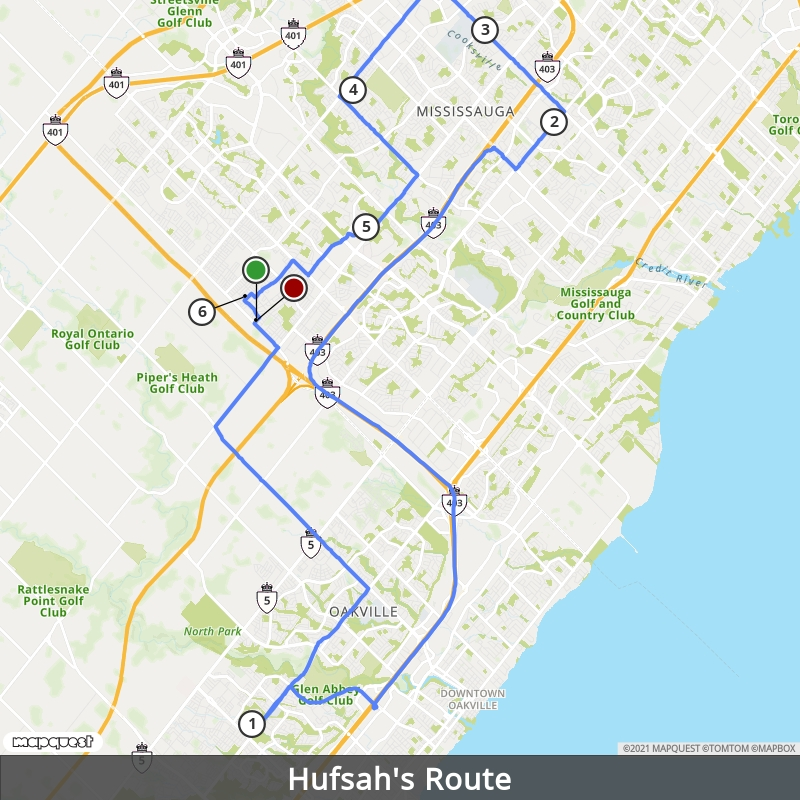
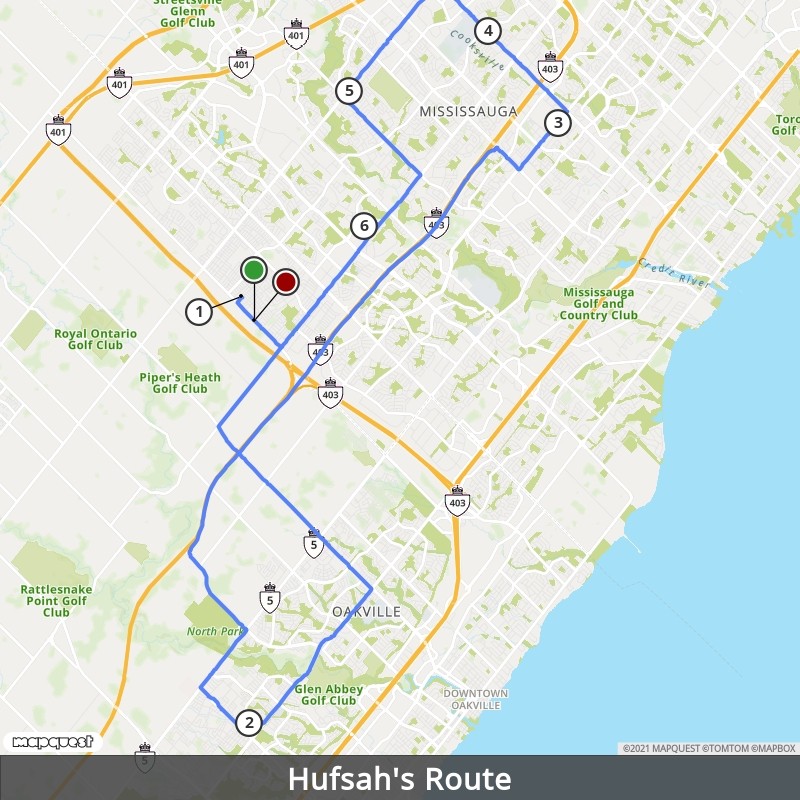
Update maps

diff --git a/osp/out/info.js b/osp/out/info.js
@@ -1,1 +1,1 @@
-var route_info = [{"name": "Abdul-Hannan Ahmad", "map": "out/Abdul-Hannan_Ahmad.png", "sequence": ["372 Activa Avenue, Kitchener", "69 Gravel Ridge Trail, Kitchener", "313 Activa avenue, Kitchener", "214 Activa Avenue, Kitchener", "142 bridlewreath street, Kitchener", "1162 Copper Leaf Crescent, Kitchener", "250 Chandler Dr., Kitchener", "294 Chandler drive , Kitchener", "40 Paulander Dr, Kitchener", "42 Weichel st, Kitchener", "17 mooregate cr, Kitchener", "66 Mooregate Crescent, Kitchener", "132 westheights dr, Kitchener"], "details": ["", "", "", "", "", "", "Melissa, Tayma: Unit 4; Luma: Unit 14", "", "Unit 17", "unit O", "Unit A", "unit 1410", ""], "units": ["1", "1", "1", "1", "1", "1", "3", "1", "1", "1", "1", "1", "1"], "names": ["Shazah Waqar", "Ruhiya Abdurafikova", "Ayse Nur Gurbuz ", "Tala Aburashed", "areeba shaikh ", "Radwan Ahmed ", "Melissa Aydi, Tayma Aydi, Luma Abuarqoub", "Noor Hasiba ", "Sahar Gulabi", "Ridwana Hagi", "Rowda Abdalla", "Betul Karanfil", "Shehryar Suleman"], "phones": ["", "", "", "226-507-4148", "226-972-3263", "", "Melissa: 226-339-2413, Tayma: 226-339-9453", "905-923-9412", "", "", "", "416-723-0450", "226-935-8149"], "time": "2096"}, {"name": "Basma Hamodi", "map": "out/Basma_Hamodi.png", "sequence": ["483 Acadia Court, Waterloo", "470 Redfox Rd, Waterloo", "227 Carter Avenue, Waterloo", "155 St. Leger Street, Kitchener"], "details": ["", "", "", "Unit 217; Please press 3217 at the phone box or give me a call!"], "units": ["3", "1", "1", "1"], "names": ["Kashmala Sajjad, Shehlala Sajjad, Zara Sajjad", "Samya Mohamad ", "Rita Alexander", "Jia Park"], "phones": ["Kashmala: 226-606-8040, Shehlala: 226-606-8040, Zara: 226-606-8040", "", "226-507-5340", "519-569-0735"], "time": "1672"}, {"name": "Hufsah Khan", "map": "out/Hufsah_Khan.png", "sequence": ["2081 Blue Jay Blvd, Oakville", "285 Enfield Place, Mississauga", "65 trailwood dr., Mississauga", "1429 Pate Court, Mississauga", "5060 Forest Hill Dr., Mississauga", "5547 Bridgeport Gate, Mississauga"], "details": ["", "Apt #1810", "Unit 421", "", "", ""], "units": ["1", "1", "1", "1", "1", "1"], "names": ["Eman Rashdi", "Qamar Mobayed", "Areesha Khan", "Zaineb Malik ", "ayesha mohammedaly ", "Michelle Angkasa"], "phones": ["905-616-8911", "647-641-2214", "Home: 905-502-7450, Cell: 647-898-7450 (but might be at work and can't answer)", "437-333-1475", "", ""], "time": "4282"}, {"name": "Mohammad Ali", "map": "out/Mohammad_Ali.png", "sequence": ["60 Grovewood Drive, Brampton", "75 Checkerberry Crescent, Brampton", "677 Balmoral Drive, Brampton", "10 Cousins Court, Brampton", "121 Owlridge Drive, Brampton"], "details": ["", "", "", "", ""], "units": ["1", "1", "1", "1", "1"], "names": ["Mohammad Ali", "Suvasan Krishnasamy", "Samar Riaz", "Mariam Rizvi", "Mahnoor Adnan"], "phones": ["647-787-4894", "647-886-9689", "647-617-5758", "", ""], "time": "3058"}, {"name": "Aisha Jamal", "map": "out/Aisha_Jamal.png", "sequence": ["258 Dewdrop Crescent, Waterloo", "252 Dewdrop Crescent, Waterloo", "421 Bamberg Crescent, Waterloo", "606 Brandenburg Blvd, Waterloo", "208 Beaver Creek Road, Waterloo", "70 Gerber Meadows Drive, Wellesley", "351 Red Osier Rd, Waterloo", "285 Sweet Gale St, Waterloo"], "details": ["", "", "", "", "", "", "", ""], "units": ["1", "1", "1", "1", "1", "1", "4", "1"], "names": ["Tabish Jamal", "Wajeeha Zaheer ", "Maha Rizvi", "Bushra Khan", "Umaymah Suhail", "Afnan Alsakani ", "Aya Alsefaou, Shahed Alsefaou, Moad Abdualla Alsefaou, Fatma Alsefaou", "Salsabeel Joma Mahfod"], "phones": ["226-972-2995", "226-751-6651", "519-729-2009", "", "519-807-8463", "226-606-2030", "Aya: 226-808-1400, Shahed: 519-404-3303, Moad: 226-988-3992, Fatma: 226-808-4411", "226-750-6618"], "time": "3171"}, {"name": "Ameer Qamar", "map": "out/Ameer_Qamar.png", "sequence": ["20 Monument Trail, Brampton"], "details": [""], "units": ["1"], "names": ["Zahra Qamar"], "phones": [""], "time": "0"}, {"name": "Mariam Elsoukkary", "map": "out/Mariam_Elsoukkary.png", "sequence": ["1064 Courtland Ave E, Kitchener", "560 Greenfield Ave. , Kitchener", "121 Rouse Ave., Cambridge", "75 Timber Creek Crescent, Cambridge", "18 Brock Street, Guelph", "715 Doon Village Road, Kitchener"], "details": ["Unit A", "Unit B9 ", "", "", "", "Hamda, Awo: Unit 28; Aimen: Unit 4"], "units": ["1", "2", "1", "2", "1", "3"], "names": ["Mariam Elsoukkary", "Shahad Hussein, Abdullah Hussein", "Zainab Ijaz", "Madiha Fathima Syed, Sabiha Syed", "Juri Alsalami", "Hamda Essa, Awo Essa, Aimen Fatima"], "phones": ["226-581-3404", "", "226-988-4121", "Madiha: 226-505-7038, Sabiha: 226-201-2230", "226-899-4064", "Awo: 226-606-9062, Aimen: 226-505-6161"], "time": "5088"}, {"name": "Noora Ali", "map": "out/Noora_Ali.png", "sequence": ["407 Moorlands Crescent, Kitchener", "590 Blair Creek Drive , Kitchener", "212 Tall Grass Crescent, Kitchener", "79 West Oak Trail, Kitchener", "15 Sofitel drive, Kitchener", "130 Sophia Crescent, Kitchener"], "details": ["", "", "", "", "", ""], "units": ["1", "4", "1", "1", "2", "1"], "names": ["Olivia Maaser-Foremna", "Mariam Mohammed Alhajali, Dema, Judi, Dana Al Haj Ali", "Jana Almasri", "Umar Hussain", "Lema Khadra, Majd Khadra", "Hina Zahid "], "phones": ["226-444-7402", "", "", "519-502-0181", "Majd: 226-808-9412", "226-988-7145"], "time": "1812"}, {"name": "Asad Baig", "map": "out/Asad_Baig.png", "sequence": ["7406 Darcel ave, Mississauga", "3981 Bloor St West, Etobicoke", "630 Rogers Road, York", "1665 Victoria Park Ave., Scarborough", "17 sun avenue, Scarborough"], "details": ["Unit 29", "Unit A", "Unit 10", "Unit 501", ""], "units": ["1", "1", "1", "1", "1"], "names": ["Tawseef Patel", "Minh Phung", "Aafia Tanvir", "Abdullah Aslam", "Victoria Thai"], "phones": ["905-749-0215", "647-677-4943", "", "", "647-708-2940"], "time": "5140"}, {"name": "Faraz Tahir", "map": "out/Faraz_Tahir.png", "sequence": ["156 Large Crescent, Ajax", "9 Bellinger Dr., Ajax", "69 Garrardview Street, Ajax", "1 Starmount Avenue, Markham", "26 Angela Court, Markham", "48 Monique Court, Markham", "110 Empringham Drive, Scarborough", "23 Blackwater Crescent, Scarborough", "555 Brimorton Dr, Scarborough", "24 Charlton Crescent, Ajax"], "details": ["", "", "", "", "", "", "Unit 140", "", "Apt 410", ""], "units": ["1", "1", "1", "1", "1", "1", "1", "1", "1", "1"], "names": ["Faraz Tahir", "Areebah Iqbal", "Suhyma Rahman", "Aanisah ", "Marhamah Sohail", "Zarlasht Jamal", "Takwa Wahedi", "Munira Al-Amudy", "Krunali Dave ", "Shanza Jamshed"], "phones": ["", "647-767-2955", "416-286-7599", "", "416-567-8419", "1-647-720-6296", "", "", "", "647-894-8125"], "time": "5379"}, {"name": "Areeb Hyder", "map": "out/Areeb_Hyder.png", "sequence": ["922 Thompson Rd South, Milton", "1344 Argall Court, Milton", "464 Laundon Terrace, Milton", "7360 Zinnia Place, Mississauga", "6240 Montevideo Road, Mississauga"], "details": ["", "", "", "Unit 52", "Unit 48"], "units": ["1", "1", "1", "1", "1"], "names": ["Ayah Hussein", "Zobia Irfan", "Zara Hussaini", "Rabiya Majeed ", "Tayyaab Tanveer"], "phones": ["", "", "647-691-9084", "647-802-9529", "1-647-989-2720"], "time": "3777"}, {"name": "Amneh Abdallah", "map": "out/Amneh_Abdallah.png", "sequence": ["69 Churchill St, Waterloo", "102 Seagram Drive, Waterloo", "62 Balsam St, Waterloo", "222 Albert St, Waterloo", "295 Lester St, Waterloo", "30 Academy Cr, Waterloo", "693 Beechwood Dr, Waterloo", "764 Paris Boulevard, Waterloo", "402 Westcroft Drive, Waterloo", "309 Hillcroft Court, Waterloo"], "details": ["Unit A", "Apt 207", "Suite B606", "Unit 1207 (12th Floor), Building Access Code: 96542", "", "", "Unit 36", "", "", ""], "units": ["2", "1", "1", "1", "1", "1", "1", "2", "3", "1"], "names": ["Sophie Dyke, Emma Ross", "Talha Aazar ", "Chi Liu", "Olla Mohamad Ahmed Obied", "Sebin Oh", "Uzair Memon ", "Raghda Said", "Maryam Noor Alam, Arifa Alam", "Tahmina Faez, Tina Faez, Tamana Faez", "Selah-Kareena Banton"], "phones": ["Sophie: 613-264-7989", "647-769-7889", "647-712-7101", "437-335-6911", "1-647-529-8967", "", "647-512-2202", "Maryam: 226-507-6126, Arifa: 226-988-1629", "Tahmina: 226-698-3357, Tina: 226-507-3377, Tamana: 226-507-3377", "519-497-9253"], "time": "1957"}];
+var route_info = [{"name": "Abdul-Hannan Ahmad", "map": "out/Abdul-Hannan_Ahmad.png", "sequence": ["372 Activa Avenue, Kitchener", "313 Activa avenue, Kitchener", "214 Activa Avenue, Kitchener", "69 Gravel Ridge Trail, Kitchener", "142 bridlewreath street, Kitchener", "1162 Copper Leaf Crescent, Kitchener", "294 Chandler drive , Kitchener", "250 Chandler Dr., Kitchener", "42 Weichel st, Kitchener", "40 Paulander Dr, Kitchener", "66 Mooregate Crescent, Kitchener", "17 mooregate cr, Kitchener", "132 westheights dr, Kitchener"], "details": ["", "", "", "", "", "", "", "Melissa, Tayma: Unit 4; Luma: Unit 14", "unit O", "Unit 17", "unit 1410", "Unit A", ""], "units": ["1", "1", "1", "1", "1", "1", "1", "3", "1", "1", "1", "1", "1"], "names": ["Shazah Waqar", "Ayse Nur Gurbuz ", "Tala Aburashed", "Ruhiya Abdurafikova", "areeba shaikh ", "Radwan Ahmed ", "Noor Hasiba ", "Melissa Aydi, Tayma Aydi, Luma Abuarqoub", "Ridwana Hagi", "Sahar Gulabi", "Betul Karanfil", "Rowda Abdalla", "Shehryar Suleman"], "phones": ["", "", "226-507-4148", "", "226-972-3263", "", "905-923-9412", "Melissa: 226-339-2413, Tayma: 226-339-9453", "", "", "416-723-0450", "", "226-935-8149"], "time": "2516"}, {"name": "Basma Hamodi", "map": "out/Basma_Hamodi.png", "sequence": ["483 Acadia Court, Waterloo", "470 Redfox Rd, Waterloo", "227 Carter Avenue, Waterloo", "155 St. Leger Street, Kitchener"], "details": ["", "", "", "Unit 217; Please press 3217 at the phone box or give me a call!"], "units": ["3", "1", "1", "1"], "names": ["Kashmala Sajjad, Shehlala Sajjad, Zara Sajjad", "Samya Mohamad ", "Rita Alexander", "Jia Park"], "phones": ["Kashmala: 226-606-8040, Shehlala: 226-606-8040, Zara: 226-606-8040", "", "226-507-5340", "519-569-0735"], "time": "1850"}, {"name": "Hufsah Khan", "map": "out/Hufsah_Khan.png", "sequence": ["5547 Bridgeport Gate, Mississauga", "2081 Blue Jay Blvd, Oakville", "285 Enfield Place, Mississauga", "65 trailwood dr., Mississauga", "1429 Pate Court, Mississauga", "5060 Forest Hill Dr., Mississauga"], "details": ["", "", "Apt #1810", "Unit 421", "", ""], "units": ["1", "1", "1", "1", "1", "1"], "names": ["Michelle Angkasa", "Eman Rashdi", "Qamar Mobayed", "Areesha Khan", "Zaineb Malik ", "ayesha mohammedaly "], "phones": ["", "905-616-8911", "647-641-2214", "Home: 905-502-7450, Cell: 647-898-7450 (but might be at work and can't answer)", "437-333-1475", ""], "time": "4210"}, {"name": "Mohammad Ali", "map": "out/Mohammad_Ali.png", "sequence": ["60 Grovewood Drive, Brampton", "121 Owlridge Drive, Brampton", "10 Cousins Court, Brampton", "677 Balmoral Drive, Brampton", "75 Checkerberry Crescent, Brampton"], "details": ["", "", "", "", ""], "units": ["1", "1", "1", "1", "1"], "names": ["Mohammad Ali", "Mahnoor Adnan", "Mariam Rizvi", "Samar Riaz", "Suvasan Krishnasamy"], "phones": ["647-787-4894", "", "", "647-617-5758", "647-886-9689"], "time": "3227"}, {"name": "Aisha Jamal", "map": "out/Aisha_Jamal.png", "sequence": ["258 Dewdrop Crescent, Waterloo", "252 Dewdrop Crescent, Waterloo", "285 Sweet Gale St, Waterloo", "421 Bamberg Crescent, Waterloo", "606 Brandenburg Blvd, Waterloo", "208 Beaver Creek Road, Waterloo", "70 Gerber Meadows Drive, Wellesley", "351 Red Osier Rd, Waterloo"], "details": ["", "", "", "", "", "", "", ""], "units": ["1", "1", "1", "1", "1", "1", "1", "4"], "names": ["Tabish Jamal", "Wajeeha Zaheer ", "Salsabeel Joma Mahfod", "Maha Rizvi", "Bushra Khan", "Umaymah Suhail", "Afnan Alsakani ", "Aya Alsefaou, Shahed Alsefaou, Moad Abdualla Alsefaou, Fatma Alsefaou"], "phones": ["226-972-2995", "226-751-6651", "226-750-6618", "519-729-2009", "", "519-807-8463", "226-606-2030", "Aya: 226-808-1400, Shahed: 519-404-3303, Moad: 226-988-3992, Fatma: 226-808-4411"], "time": "2987"}, {"name": "Ameer Qamar", "map": "out/Ameer_Qamar.png", "sequence": ["20 Monument Trail, Brampton", "137 Lavender Drive, Hamilton"], "details": ["", ""], "units": ["1", "1"], "names": ["Zahra Qamar", "Victoria Trieu"], "phones": ["", "438-728-5977"], "time": "6565"}, {"name": "Mariam Elsoukkary", "map": "out/Mariam_Elsoukkary.png", "sequence": ["1064 Courtland Ave E, Kitchener", "560 Greenfield Ave. , Kitchener", "121 Rouse Ave., Cambridge", "75 Timber Creek Crescent, Cambridge", "18 Brock Street, Guelph", "715 Doon Village Road, Kitchener"], "details": ["Unit A", "Unit B9 ", "", "", "", "Hamda, Awo: Unit 28; Aimen: Unit 4"], "units": ["1", "2", "1", "2", "1", "3"], "names": ["Mariam Elsoukkary", "Shahad Hussein, Abdullah Hussein", "Zainab Ijaz", "Madiha Fathima Syed, Sabiha Syed", "Juri Alsalami", "Hamda Essa, Awo Essa, Aimen Fatima"], "phones": ["226-581-3404", "", "226-988-4121", "Madiha: 226-505-7038, Sabiha: 226-201-2230", "226-899-4064", "Awo: 226-606-9062, Aimen: 226-505-6161"], "time": "5047"}, {"name": "Noora Ali", "map": "out/Noora_Ali.png", "sequence": ["15 Sofitel drive, Kitchener", "130 Sophia Crescent, Kitchener", "79 West Oak Trail, Kitchener", "407 Moorlands Crescent, Kitchener", "212 Tall Grass Crescent, Kitchener", "590 Blair Creek Drive , Kitchener"], "details": ["", "", "", "", "", ""], "units": ["2", "1", "1", "1", "1", "4"], "names": ["Lema Khadra, Majd Khadra", "Hina Zahid ", "Umar Hussain", "Olivia Maaser-Foremna", "Jana Almasri", "Mariam Mohammed Alhajali, Dema, Judi, Dana Al Haj Ali"], "phones": ["Majd: 226-808-9412", "226-988-7145", "519-502-0181", "226-444-7402", "", ""], "time": "1792"}, {"name": "Asad Baig", "map": "out/Asad_Baig.png", "sequence": ["7406 Darcel ave, Mississauga", "3981 Bloor St West, Etobicoke", "630 Rogers Road, York", "1665 Victoria Park Ave., Scarborough", "17 sun avenue, Scarborough"], "details": ["Unit 29", "Unit A", "Unit 10", "Unit 501", ""], "units": ["1", "1", "1", "1", "1"], "names": ["Tawseef Patel", "Minh Phung", "Aafia Tanvir", "Abdullah Aslam", "Victoria Thai"], "phones": ["905-749-0215", "647-677-4943", "", "", "647-708-2940"], "time": "5427"}, {"name": "Faraz Tahir", "map": "out/Faraz_Tahir.png", "sequence": ["156 Large Crescent, Ajax", "9 Bellinger Dr., Ajax", "69 Garrardview Street, Ajax", "1 Starmount Avenue, Markham", "26 Angela Court, Markham", "48 Monique Court, Markham", "110 Empringham Drive, Scarborough", "23 Blackwater Crescent, Scarborough", "555 Brimorton Dr, Scarborough", "24 Charlton Crescent, Ajax"], "details": ["", "", "", "", "", "", "Unit 140", "", "Apt 410", ""], "units": ["1", "1", "1", "1", "1", "1", "1", "1", "1", "1"], "names": ["Faraz Tahir", "Areebah Iqbal", "Suhyma Rahman", "Aanisah ", "Marhamah Sohail", "Zarlasht Jamal", "Takwa Wahedi", "Munira Al-Amudy", "Krunali Dave ", "Shanza Jamshed"], "phones": ["", "647-767-2955", "416-286-7599", "", "416-567-8419", "1-647-720-6296", "", "", "", "647-894-8125"], "time": "5958"}, {"name": "Areeb Hyder", "map": "out/Areeb_Hyder.png", "sequence": ["922 Thompson Rd South, Milton", "1344 Argall Court, Milton", "464 Laundon Terrace, Milton", "7360 Zinnia Place, Mississauga", "6240 Montevideo Road, Mississauga"], "details": ["", "", "", "Unit 52", "Unit 48"], "units": ["1", "1", "1", "1", "1"], "names": ["Ayah Hussein", "Zobia Irfan", "Zara Hussaini", "Rabiya Majeed ", "Tayyaab Tanveer"], "phones": ["", "", "647-691-9084", "647-802-9529", "1-647-989-2720"], "time": "3968"}, {"name": "Amneh Abdallah", "map": "out/Amneh_Abdallah.png", "sequence": ["402 Westcroft Drive, Waterloo", "309 Hillcroft Court, Waterloo", "764 Paris Boulevard, Waterloo", "693 Beechwood Dr, Waterloo", "30 Academy Cr, Waterloo", "295 Lester St, Waterloo", "62 Balsam St, Waterloo", "222 Albert St, Waterloo", "102 Seagram Drive, Waterloo", "69 Churchill St, Waterloo"], "details": ["", "", "", "Unit 36", "", "", "Suite B606", "Unit 1207 (12th Floor), Building Access Code: 96542", "Apt 207", "Unit A"], "units": ["3", "1", "2", "1", "1", "1", "1", "1", "1", "2"], "names": ["Tahmina Faez, Tina Faez, Tamana Faez", "Selah-Kareena Banton", "Maryam Noor Alam, Arifa Alam", "Raghda Said", "Uzair Memon ", "Sebin Oh", "Chi Liu", "Olla Mohamad Ahmed Obied", "Talha Aazar ", "Sophie Dyke, Emma Ross"], "phones": ["Tahmina: 226-698-3357, Tina: 226-507-3377, Tamana: 226-507-3377", "519-497-9253", "Maryam: 226-507-6126, Arifa: 226-988-1629", "647-512-2202", "", "1-647-529-8967", "647-712-7101", "437-335-6911", "647-769-7889", "Sophie: 613-264-7989"], "time": "1974"}];

diff --git a/osp/index.html b/osp/index.html
@@ -34,7 +34,7 @@
             <div id="RouteLinks" class="text-center d-flex flex-column align-items-center justify-content-center"></div>
             <h2 class="mt-2">Overview</h2>
             <div>
-                <span class="font-weight-bold">SKIPPED:</span> Victoria Trieu - 137 Lavender Drive, Ancaster; Zaheer Macdonald - 119 Rosie Street, Clarksburg
+                <span class="font-weight-bold">SKIPPED:</span> Zaheer Macdonald - 119 Rosie Street, Clarksburg
             </div>
             <table class="table table-bordered mt-2">
                 <thead>
